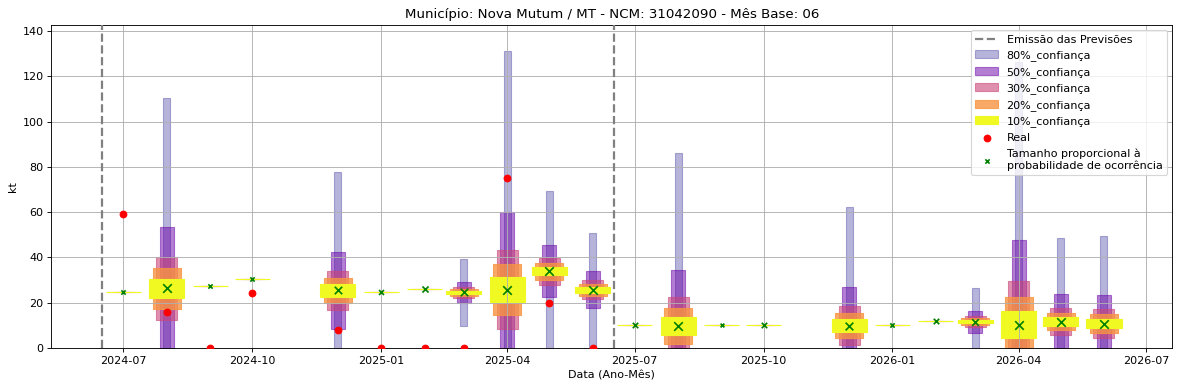
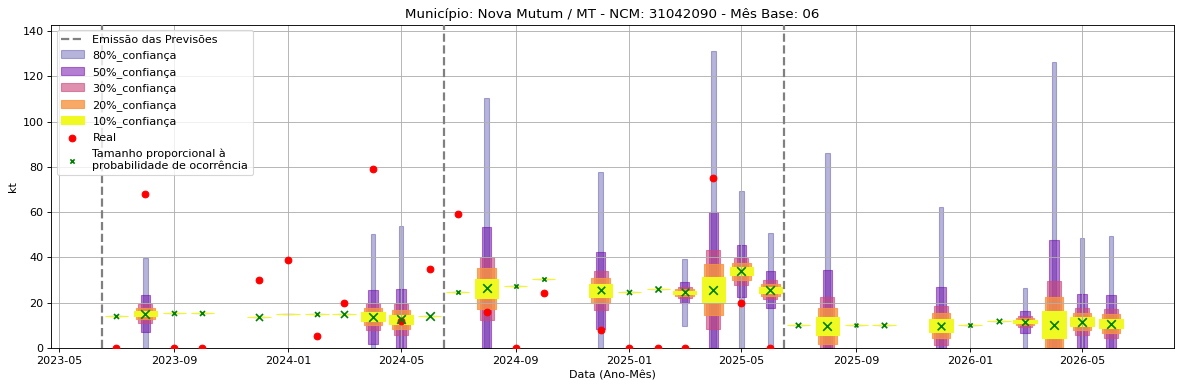
Atualização automática em lote

diff --git a/README.md b/README.md
@@ -17,59 +17,56 @@
 
 ![Gráfico de Previsão](31021010.png)
 
-Fator de Influência em Destaque:
+Fator de Influência em Destaque nos últimos 8 anos:
 
 Previsão Influenciada:
 - Município: Nova Mutum
 - Produto (NCM): Ureia, mesmo em solução aquosa, com teor de nitrogênio (azoto) superior a 45 %, em peso, calculado sobre o produto anidro no estado seco-31021010 
-- Mês previsto: 10
-
-        Fator Influenciador: Chuva
-        - Unidade mm_lag6
-        - Mês 12
-        - UF TO
+- Mês previsto: 01
 
 
-
+        Fator Influenciador: Comércio Exterior
+        - Produto Combustíveis minerais, óleos minerais e produtos da sua destilação; matérias betuminosas; ceras minerais (27)
+        - UF PE
+        - Unidade kt_mun
+\n
 
 
 
 
 ![Gráfico de Previsão](31022100.png)
 
-Fator de Influência em Destaque:
+Fator de Influência em Destaque nos últimos 8 anos:
 
 Previsão Influenciada:
 - Município: Nova Mutum
 - Produto (NCM): Sulfato de amônio-31022100 
-- Mês previsto: 02
-
-        Fator Influenciador: Chuva
-        - Unidade mm_lag3
-        - Mês 08
-        - UF RO
+- Mês previsto: 12
 
 
-
+        Fator Influenciador: Comércio Exterior
+        - Produto Adubos (fertilizantes) (31)
+        - UF MG
+        - Unidade kt_lag1
+\n
 
 
 
 
 ![Gráfico de Previsão](31042090.png)
 
-Fator de Influência em Destaque:
+Fator de Influência em Destaque nos últimos 8 anos:
 
 Previsão Influenciada:
 - Município: Nova Mutum
 - Produto (NCM): Outros cloretos de potássio-31042090 
-- Mês previsto: 04
-
-        Fator Influenciador: Chuva
-        - Unidade mm_lag7
-        - Mês 08
-        - UF SC
+- Mês previsto: 07
 
 
-
+        Fator Influenciador: Comércio Exterior
+        - Produto Adubos (fertilizantes) (31)
+        - UF BA
+        - Unidade kt_lag12
+\n
 
 
